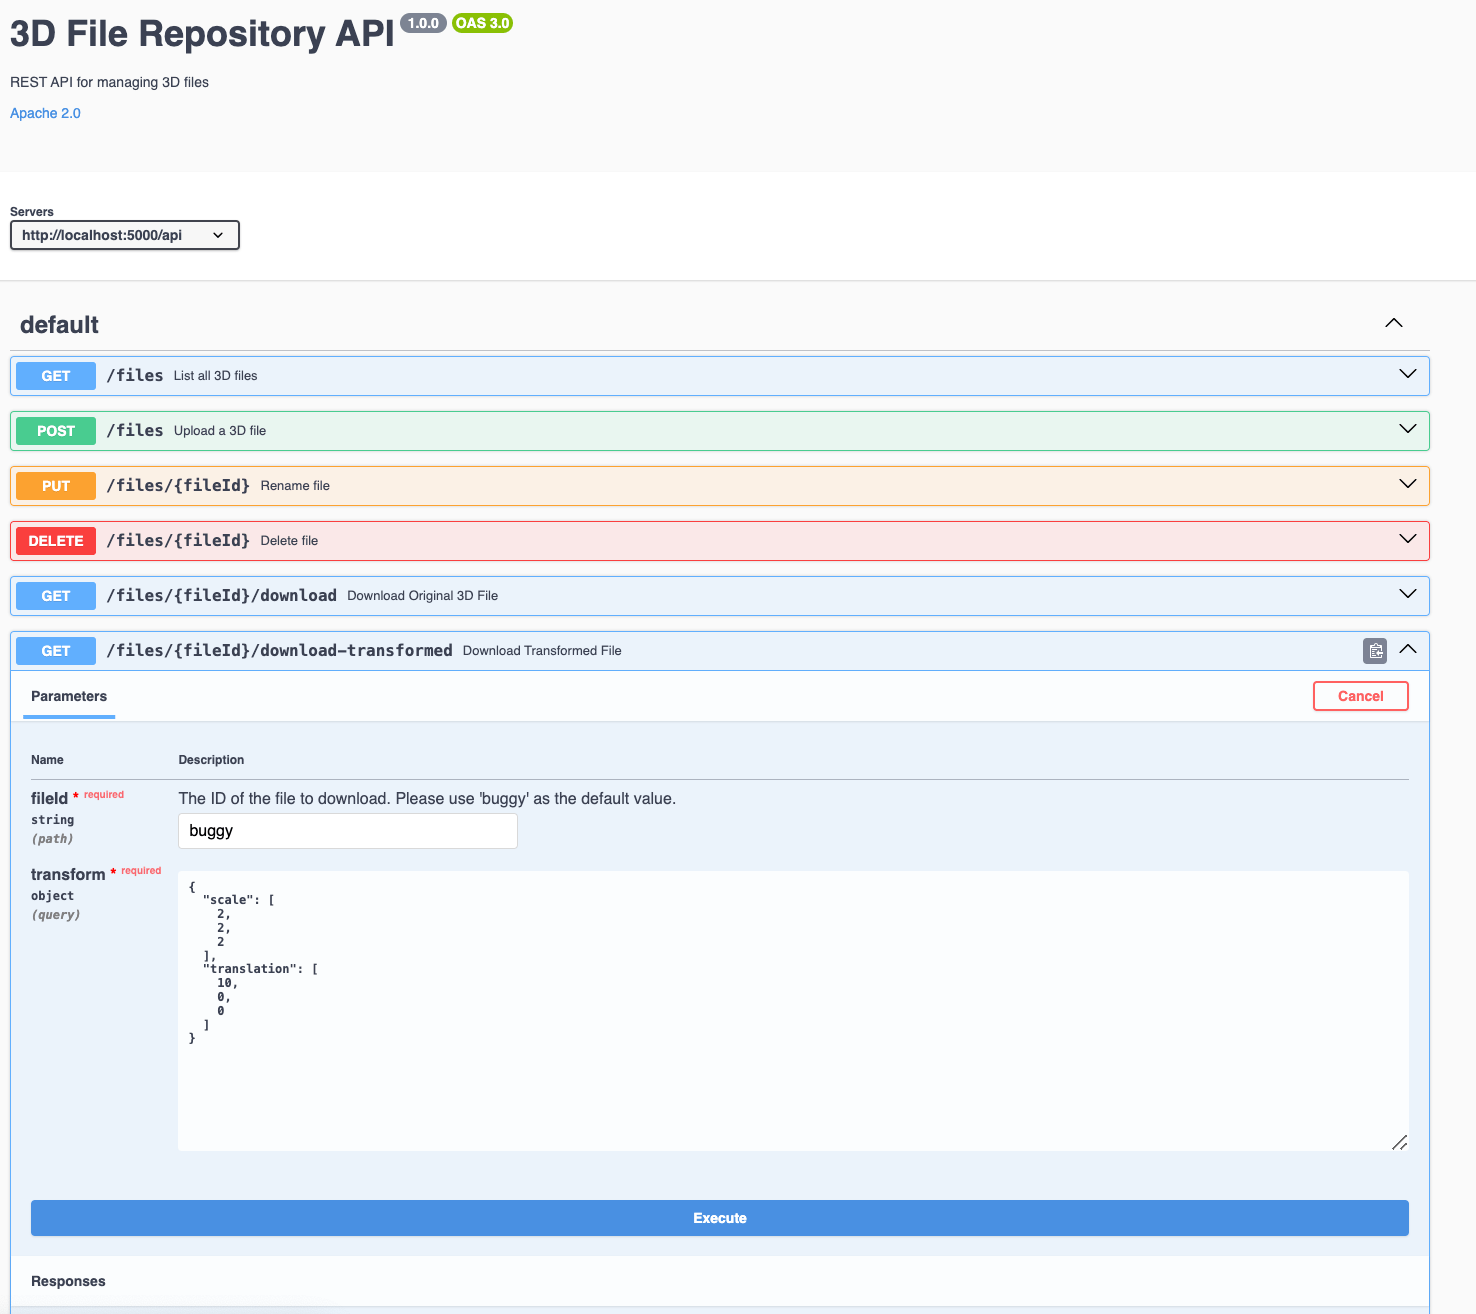
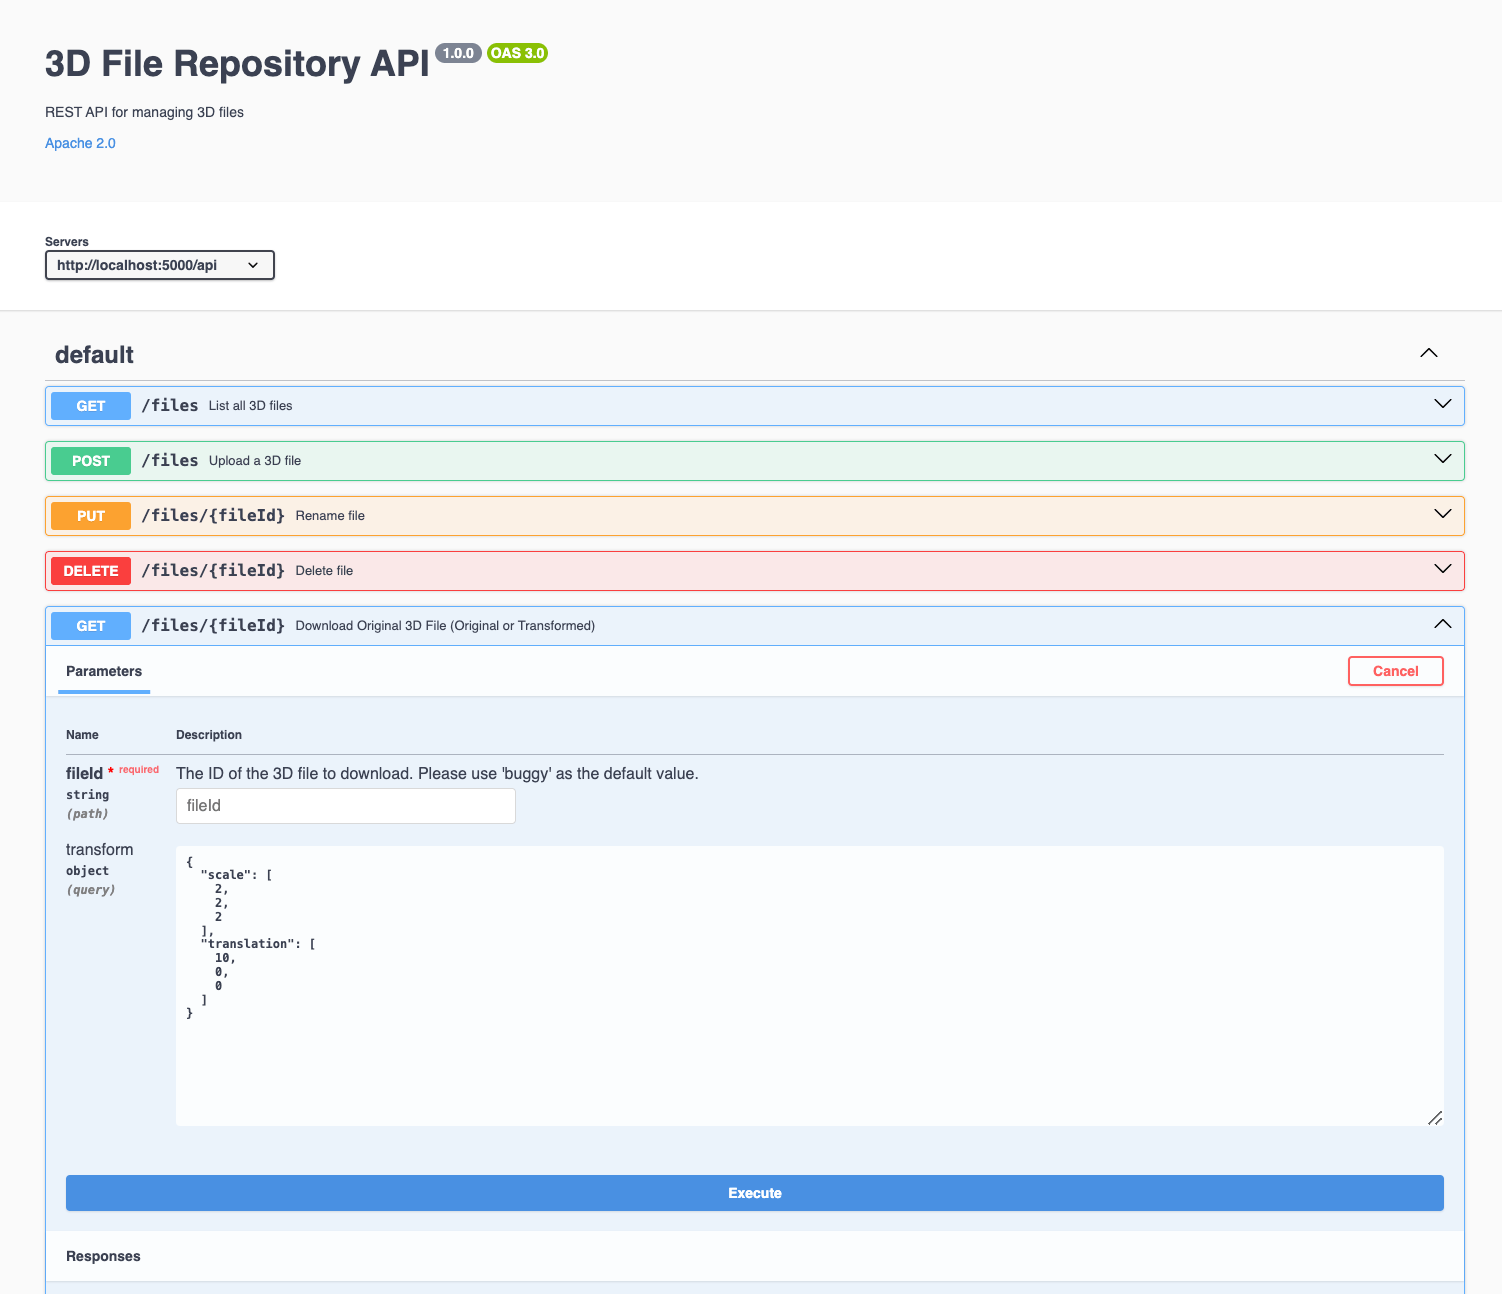
Suggested cleaning and fixtutes

Changed region(s): [[0.0, 0.1546, 0.9661, 0.7728], [0.0, 0.8964, 0.9661, 1.0], [0.0, 0.0, 0.374, 0.1236]]

diff --git a/src/utils.ts b/src/utils.ts
@@ -1,4 +1,5 @@
 import fs from 'fs';
+import fsPromises from 'fs/promises';
 import axios from 'axios';
 import readline from 'readline';
 import { Response } from 'express';
@@ -29,16 +30,15 @@ export function addArrays(vertex: number[], translation: number[]): number[] {
  * Function to ensure that a folder exists synchronously
  * @param folderPath The path of the folder to ensure exists
  */
-export function ensureFolderExistsSync(folderPath: string): void {
-    try {
-        fs.mkdirSync(folderPath, { recursive: true });
+export function ensureFolderExists(folderPath: string): void {
+    fsPromises.mkdir(folderPath, { recursive: true }).then(() => {
         console.info(`Checked folder: ${folderPath}`);
-    } catch (err: any) {
+    }).catch((err: any) => {
         // Silent if the folder already exists
         if (err.code !== 'EEXIST') {
             throw err;
         }
-    }
+    })
 }
 
 /**
@@ -84,18 +84,14 @@ export async function getObjFile(fileId: string): Promise<[string, string]> {
  * @param res The Express response object to write transformed lines
  */
 export function processObjLine(line: string, scale: number[], translation: number[], res: Response): void {
-    const vertexRegex = /^v\s+([-+]?\d+\.\d+)\s+([-+]?\d+\.\d+)\s+([-+]?\d+\.\d+)/;
-    const vertexMatch = line.match(vertexRegex);
-    if (vertexMatch) {
-        const x = parseFloat(vertexMatch[1]);
-        const y = parseFloat(vertexMatch[2]);
-        const z = parseFloat(vertexMatch[3]);
-        const vertex = [x, y, z];
+    const parts = line.trim().split(/\s+/); // Split the line by whitespace
+
+    if (parts[0] === 'v' && parts.length === 4) {
+        const vertex = parts.slice(1).map(parseFloat);
         const transformedVertex = addArrays(multiplyArray(vertex, scale), translation);
         const transformedLine = `v ${transformedVertex[0]} ${transformedVertex[1]} ${transformedVertex[2]}`;
-        res.write(transformedLine + '\n'); // Write the transformed line to the response
+        res.write(transformedLine + '\n');
     } else {
-        // If the line doesn't match the vertex format, write it unchanged
         res.write(line + '\n');
     }
 }

diff --git a/src/controller.ts b/src/controller.ts
@@ -13,7 +13,7 @@ import { getObjFile, transformObjFile } from './utils';
  * @param translation The translation vector for transformation.
  * @param res The response object to stream the transformed file.
  */
-export const loadAndTransformFile = async (fileId: string, scale: number[], translation: number[], res: Response) => {
+const loadAndTransformFile = async (fileId: string, scale: number[], translation: number[], res: Response) => {
     try {
         const [filePath, fileFormat] = await getObjFile(fileId);
 
@@ -33,6 +33,21 @@ export const loadAndTransformFile = async (fileId: string, scale: number[], tran
         res.status(500).send('Failed to transform file');
     }
 }
+
+
+/**
+ * Endpoint to download an original 3D file.
+ * @param req The request object containing the file ID.
+ * @param res The response object for streaming the file.
+ */
+export const downloadFile = async (req: Request, res: Response) => {
+    // Logic to download an original 3D file
+    const fileId = req.params.fileId;
+    const format = 'obj';
+    res.setHeader('Content-Type', 'application/octet-stream');
+    res.setHeader('Content-Disposition', `attachment; filename="${fileId}.${format}"`);
+    res.sendStatus(200);
+};
 
 /**
  * Endpoint for downloading a transformed file.
@@ -96,16 +111,3 @@ export const deleteFile = (req: Request, res: Response) => {
     res.sendStatus(200);
 };
 
-/**
- * Endpoint to download an original 3D file.
- * @param req The request object containing the file ID.
- * @param res The response object for streaming the file.
- */
-export const downloadFile = (req: Request, res: Response) => {
-    // Logic to download an original 3D file
-    const fileId = req.params.fileId;
-    const format = 'obj';
-    res.setHeader('Content-Type', 'application/octet-stream');
-    res.setHeader('Content-Disposition', `attachment; filename="${fileId}.${format}"`);
-    res.sendStatus(200);
-};

diff --git a/src/routes.ts b/src/routes.ts
@@ -1,8 +1,8 @@
-import express from 'express';
+import { Router, Request, Response } from 'express';
 import { listFiles, renameFile, deleteFile, downloadFile, downloadTransformedFile }
     from './controller';
 
-const router = express.Router();
+const router = Router();
 
 // Route for listing all 3D files
 router.get('/files', listFiles);
@@ -13,10 +13,10 @@ router.put('/files/:fileId', renameFile);
 // Route for deleting a file
 router.delete('/files/:fileId', deleteFile);
 
-// Route for downloading original file
-router.get('/files/:fileId/download', downloadFile);
-
-// Route for downloading transformed file
-router.get('/files/:fileId/download-transformed', downloadTransformedFile);
+// Route for downloading original and transformed file
+router.get('/files/:fileId', async function (req: Request, res: Response) {
+    if (Object.keys(req.query).length) return await downloadTransformedFile(req, res);
+    await downloadFile(req, res);
+});
 
 export default router;

diff --git a/src/server.ts b/src/server.ts
@@ -4,7 +4,7 @@ import fs from "fs";
 import YAML from 'yaml';
 
 import { FILES_STORE_PATH } from './constants';
-import { ensureFolderExistsSync } from "./utils";
+import { ensureFolderExists } from "./utils";
 import fileRoutes from './routes';
 
 // Read the OpenAPI specification from YAML file
@@ -42,12 +42,12 @@ function monitorMemoryUsage() {
 // Monitor memory usage periodically every 5 seconds
 setInterval(monitorMemoryUsage, 5000);
 
+// Create a folder to mimic file storage for 3D models
+ensureFolderExists(FILES_STORE_PATH);
+
 // Start the server
 app.listen(PORT, () => {
     console.log(`Server is running on port ${PORT}`);
-
-    // Create a folder to mimic file storage for 3D models
-    ensureFolderExistsSync(FILES_STORE_PATH);
 });
 
 export default app;

diff --git a/README.md b/README.md
@@ -7,9 +7,6 @@ This is an implementation of a REST API of a 3D file repository application
 
 The API provides endpoints to manage and transform 3D object files
 
-## Update ⚠
-Check the branch 'fixtutes' for updated optimizations
-
 ## Features for 3D Objects CRUD and Transformation Operations
 
 - Upload 3D files
@@ -80,13 +77,12 @@ The API provides the following endpoints in openapi V3 specification:
 - `GET /api/files`: List all 3D files
 - `PUT /api/files/:fileId`: Rename a 3D file
 - `DELETE /api/files/:fileId`: Delete a 3D file
-- `GET /api/files/:fileId/download`: Download the original 3D file
-- `GET /api/files/:fileId/download-transformed`: Download the transformed 3D file with dynamic scaling and translation
+- `GET /api/files/:fileId`: Download the original 3D file or transformed(scaling and translation)
 
 ## Usage Examples
 
 ```bash
-GET http://localhost:5000/api/files/buggy/download-transformed?scale=[2,2,2]&translation=[10,0,0]
+GET http://localhost:5000/api/files/buggy?scale=[2,2,2]&translation=[10,0,0]
 ```
 
 This call will stream the transformed 3D object progressively as a download response applying the given transformation e.g { scale: [2,2,2], translate: [10,0,0] } on the original source file vertices and **will not alter the file ⚠**
